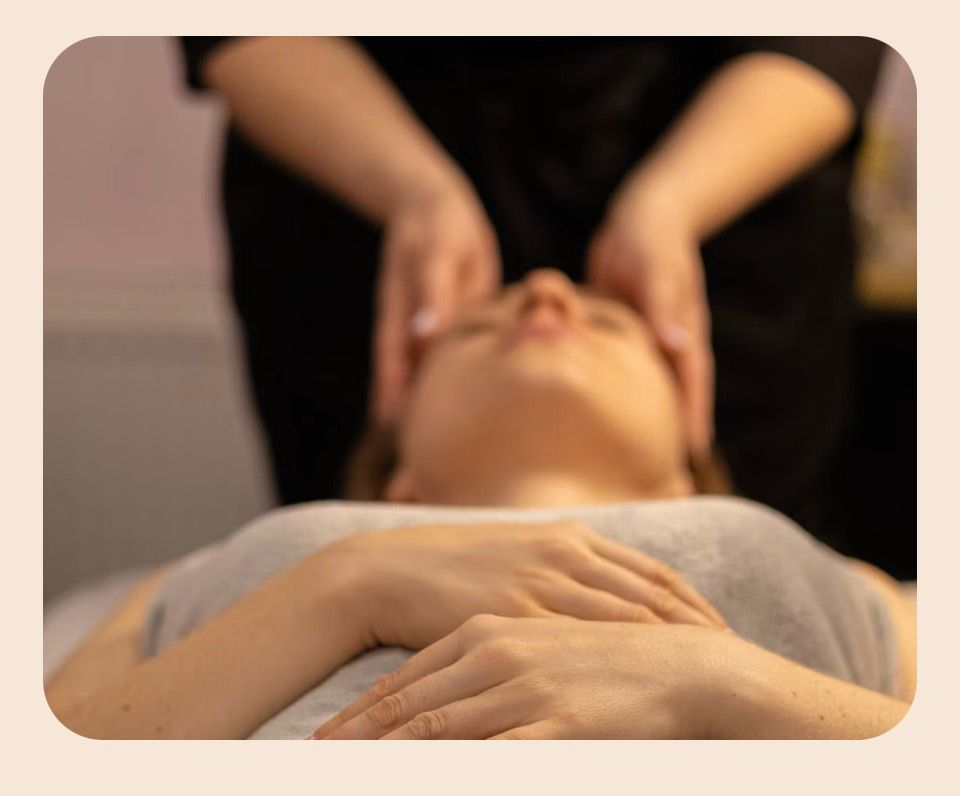
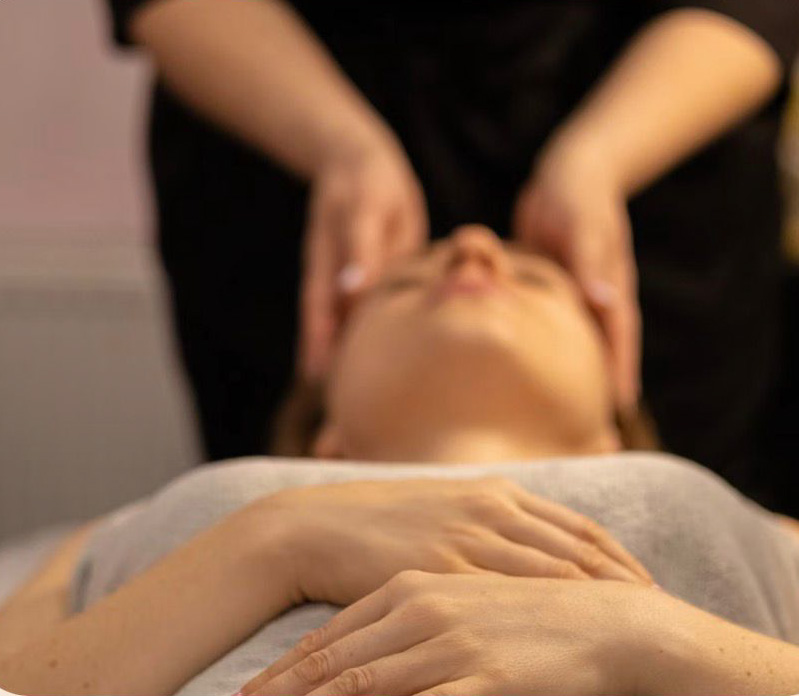
Massagem

diff --git a/index.html b/index.html
@@ -189,124 +189,96 @@
     </header>
 
     <!-- ── HERO ───────────────────────────────────────── -->
-    <section
-      id="hero"
-      class="relative h-screen min-h-[600px] flex items-center justify-center overflow-hidden"
-    >
-      <!-- Vídeo de fundo: coloque o ficheiro zen.mp4 na pasta assets/ -->
-      <video
+    <section id="hero" class="pt-32 pb-20 px-6 max-w-5xl mx-auto">
+        <video
         id="hero-video"
         class="absolute inset-0 w-full h-full object-cover"
-        src="./assets/zenSea.mp4"
+        src="assets/zen.mp4"
         autoplay
         muted
         loop
         playsinline
-        poster="./assets/Massagem.jpeg"
+        poster="assets/zen-poster.jpg"
       ></video>
-
-      <!-- Overlay gradiente duplo: escurece o vídeo e cria profundidade -->
-      <div
-        class="absolute inset-0 bg-gradient-to-b from-black/50 via-black/30 to-black/60"
-      ></div>
-      <!-- Toque de cor verde-sálvia subtil por baixo -->
-      <div class="absolute inset-0 bg-sage-900/20 mix-blend-multiply"></div>
-
-      <!-- Conteúdo centrado -->
-      <div class="relative z-10 text-center px-6 max-w-3xl mx-auto">
-        <p class="text-xs tracking-[0.25em] uppercase text-white/70 mb-6">
-          Lisboa · Atendimento presencial &amp; online
-        </p>
-        <h1
-          class="font-display text-5xl md:text-7xl font-light text-white leading-tight mb-6 drop-shadow-sm"
-        >
-          Um espaço para<br /><em>cuidar, sentir<br />e transformar.</em>
-        </h1>
-        <p
-          class="text-white/80 text-base md:text-lg leading-relaxed mb-4 max-w-xl mx-auto"
-        >
-          Acolho cada pessoa com empatia e respeito, numa abordagem terapêutica
-          que integra mente e corpo.
-        </p>
-        <div class="flex gap-3 justify-center flex-wrap mb-8">
-          <span
-            class="text-xs bg-white/15 backdrop-blur-sm text-white/90 rounded-full px-3 py-1.5 tracking-wide border border-white/20"
-            >🇵🇹 Português</span
+      <div class="grid md:grid-cols-2 gap-12 items-center">
+        <div>
+          <p class="text-xs tracking-widest uppercase text-clay-500 mb-4">
+            Lisboa · Atendimento presencial &amp; online
+          </p>
+          <h1
+            class="font-display text-5xl md:text-6xl font-light text-sage-700 leading-tight mb-6"
           >
-          <span
-            class="text-xs bg-white/15 backdrop-blur-sm text-white/90 rounded-full px-3 py-1.5 tracking-wide border border-white/20"
-            >🇫🇷 Francês</span
-          >
+            Um espaço para<br /><em>cuidar, sentir<br />e transformar.</em>
+          </h1>
+          <p class="text-stone-500 text-base leading-relaxed mb-8 max-w-md">
+            Acolho cada pessoa com empatia e respeito, numa abordagem
+            terapêutica que integra mente e corpo — promovendo equilíbrio,
+            autoconhecimento e crescimento pessoal.
+          </p>
+          <div class="flex gap-3 flex-wrap mb-6">
+            <span
+              class="text-xs bg-warm-200 text-clay-600 rounded-full px-3 py-1.5 tracking-wide"
+              >🇵🇹 Português</span
+            >
+            <span
+              class="text-xs bg-warm-200 text-clay-600 rounded-full px-3 py-1.5 tracking-wide"
+              >🇫🇷 Francês</span
+            >
+          </div>
+          <div class="flex gap-3 flex-wrap">
+            <a
+              href="#contactos"
+              class="btn-primary px-6 py-3 rounded-full text-sm font-medium"
+              >Marcar consulta</a
+            >
+            <a
+              href="#sobre"
+              class="btn-outline px-6 py-3 rounded-full text-sm font-medium"
+              >Saber mais</a
+            >
+          </div>
         </div>
-        <div class="flex gap-3 justify-center flex-wrap">
-          <a
-            href="#contactos"
-            class="btn-primary px-7 py-3 rounded-full text-sm font-medium shadow-lg"
-            >Marcar consulta</a
-          >
-          <a
-            href="#sobre"
-            class="px-7 py-3 rounded-full text-sm font-medium border border-white/40 text-white hover:bg-white/10 transition-colors backdrop-blur-sm"
-            >Saber mais</a
-          >
+        <div class="flex justify-center">
+          <!-- Foto: substitua src pelo caminho real da imagem -->
+          <div class="relative">
+            <div
+              class="w-72 h-80 md:w-80 md:h-96 rounded-3xl bg-warm-200 flex items-center justify-center text-warm-200 overflow-hidden"
+            >
+              <img
+                src="./assets/Massagem.jpeg"
+                alt="Patrícia dos Santos"
+                class="w-full h-full"
+                onerror="
+                  this.style.display = 'none'
+                  this.nextElementSibling.style.display = 'flex'
+                "
+              />
+              <div
+                class="hidden w-full h-full flex-col items-center justify-center text-clay-300 gap-2"
+              >
+                <svg
+                  width="48"
+                  height="48"
+                  viewBox="0 0 24 24"
+                  fill="none"
+                  stroke="currentColor"
+                  stroke-width="1.2"
+                >
+                  <circle cx="12" cy="8" r="4" />
+                  <path d="M4 20c0-4 3.6-7 8-7s8 3 8 7" />
+                </svg>
+                <span class="text-xs"></span>
+              </div>
+            </div>
+            <div
+              class="absolute -bottom-4 -right-4 w-24 h-24 rounded-2xl bg-sage-100 -z-10"
+            ></div>
+            <div
+              class="absolute -top-4 -left-4 w-16 h-16 rounded-xl bg-clay-100 -z-10"
+            ></div>
+          </div>
         </div>
       </div>
-
-      <!-- Seta scroll suave -->
-      <a
-        href="#sobre"
-        aria-label="Continuar"
-        class="absolute bottom-8 left-1/2 -translate-x-1/2 z-10 text-white/60 hover:text-white/90 transition-colors animate-bounce"
-      >
-        <svg
-          width="24"
-          height="24"
-          viewBox="0 0 24 24"
-          fill="none"
-          stroke="currentColor"
-          stroke-width="1.5"
-        >
-          <path d="M12 5v14M5 12l7 7 7-7" />
-        </svg>
-      </a>
-
-      <!-- Botão mute/unmute -->
-      <button
-        id="mute-btn"
-        onclick="toggleMute()"
-        aria-label="Ativar/desativar som"
-        class="absolute bottom-8 right-6 z-10 w-9 h-9 rounded-full bg-white/15 backdrop-blur-sm border border-white/20 flex items-center justify-center text-white/70 hover:text-white hover:bg-white/25 transition-all"
-      >
-        <!-- Ícone muted (padrão) -->
-        <svg
-          id="icon-muted"
-          width="16"
-          height="16"
-          viewBox="0 0 24 24"
-          fill="none"
-          stroke="currentColor"
-          stroke-width="1.8"
-        >
-          <polygon points="11 5 6 9 2 9 2 15 6 15 11 19 11 5" />
-          <line x1="23" y1="9" x2="17" y2="15" />
-          <line x1="17" y1="9" x2="23" y2="15" />
-        </svg>
-        <!-- Ícone com som (escondido) -->
-        <svg
-          id="icon-sound"
-          class="hidden"
-          width="16"
-          height="16"
-          viewBox="0 0 24 24"
-          fill="none"
-          stroke="currentColor"
-          stroke-width="1.8"
-        >
-          <polygon points="11 5 6 9 2 9 2 15 6 15 11 19 11 5" />
-          <path d="M19.07 4.93a10 10 0 0 1 0 14.14" />
-          <path d="M15.54 8.46a5 5 0 0 1 0 7.07" />
-        </svg>
-      </button>
     </section>
 
     <!-- ── SOBRE ──────────────────────────────────────── -->